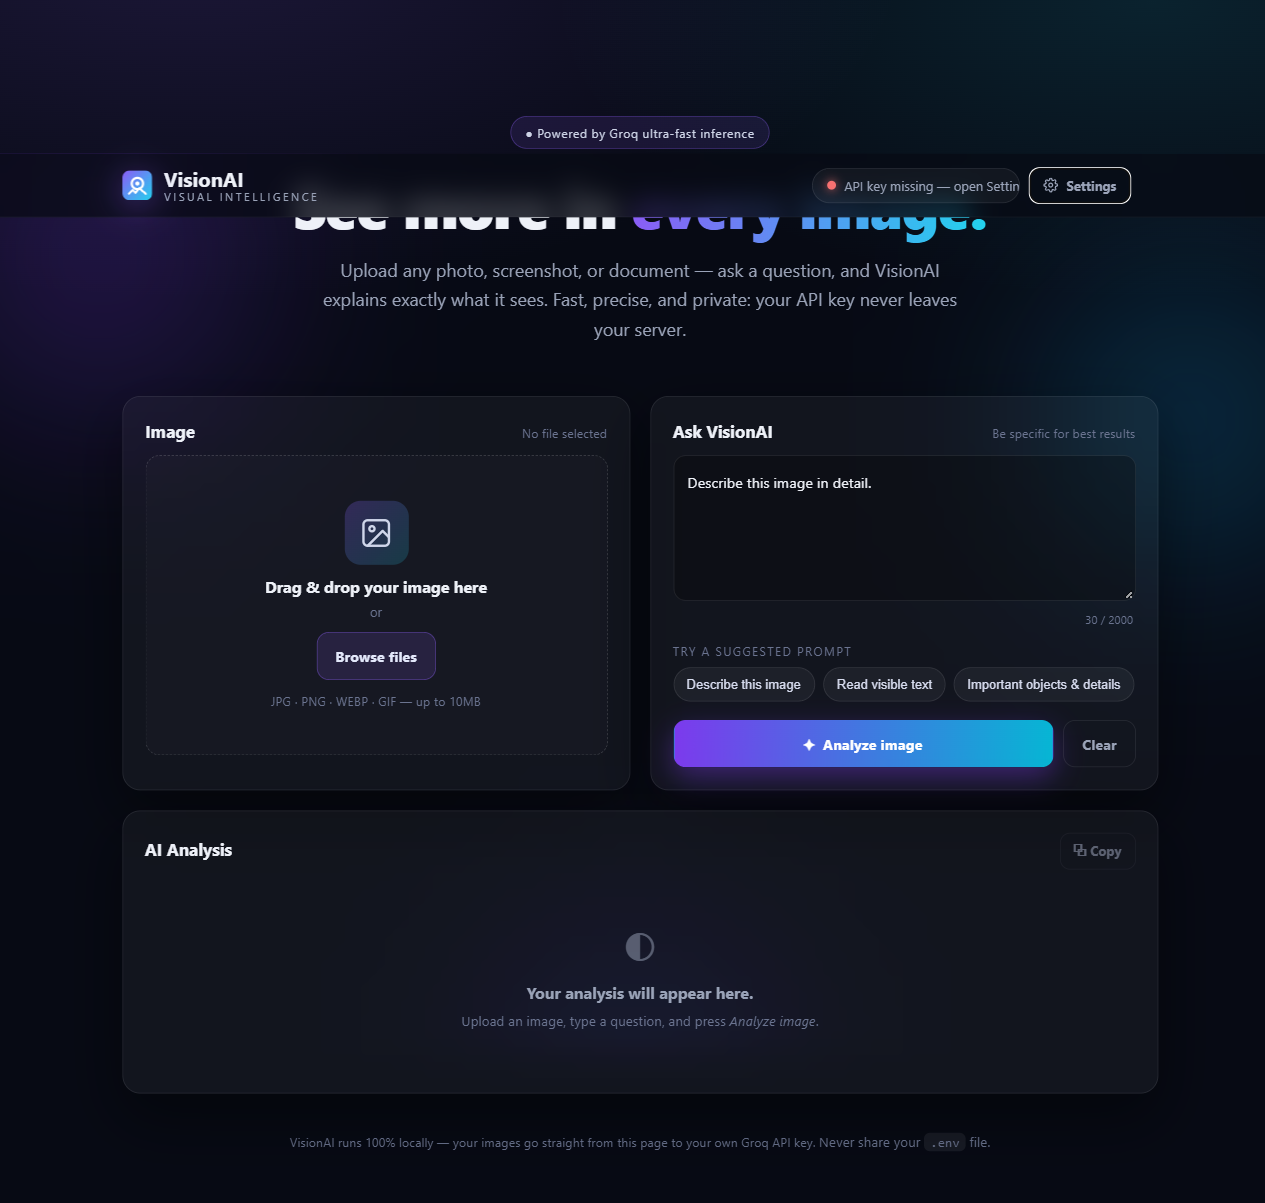
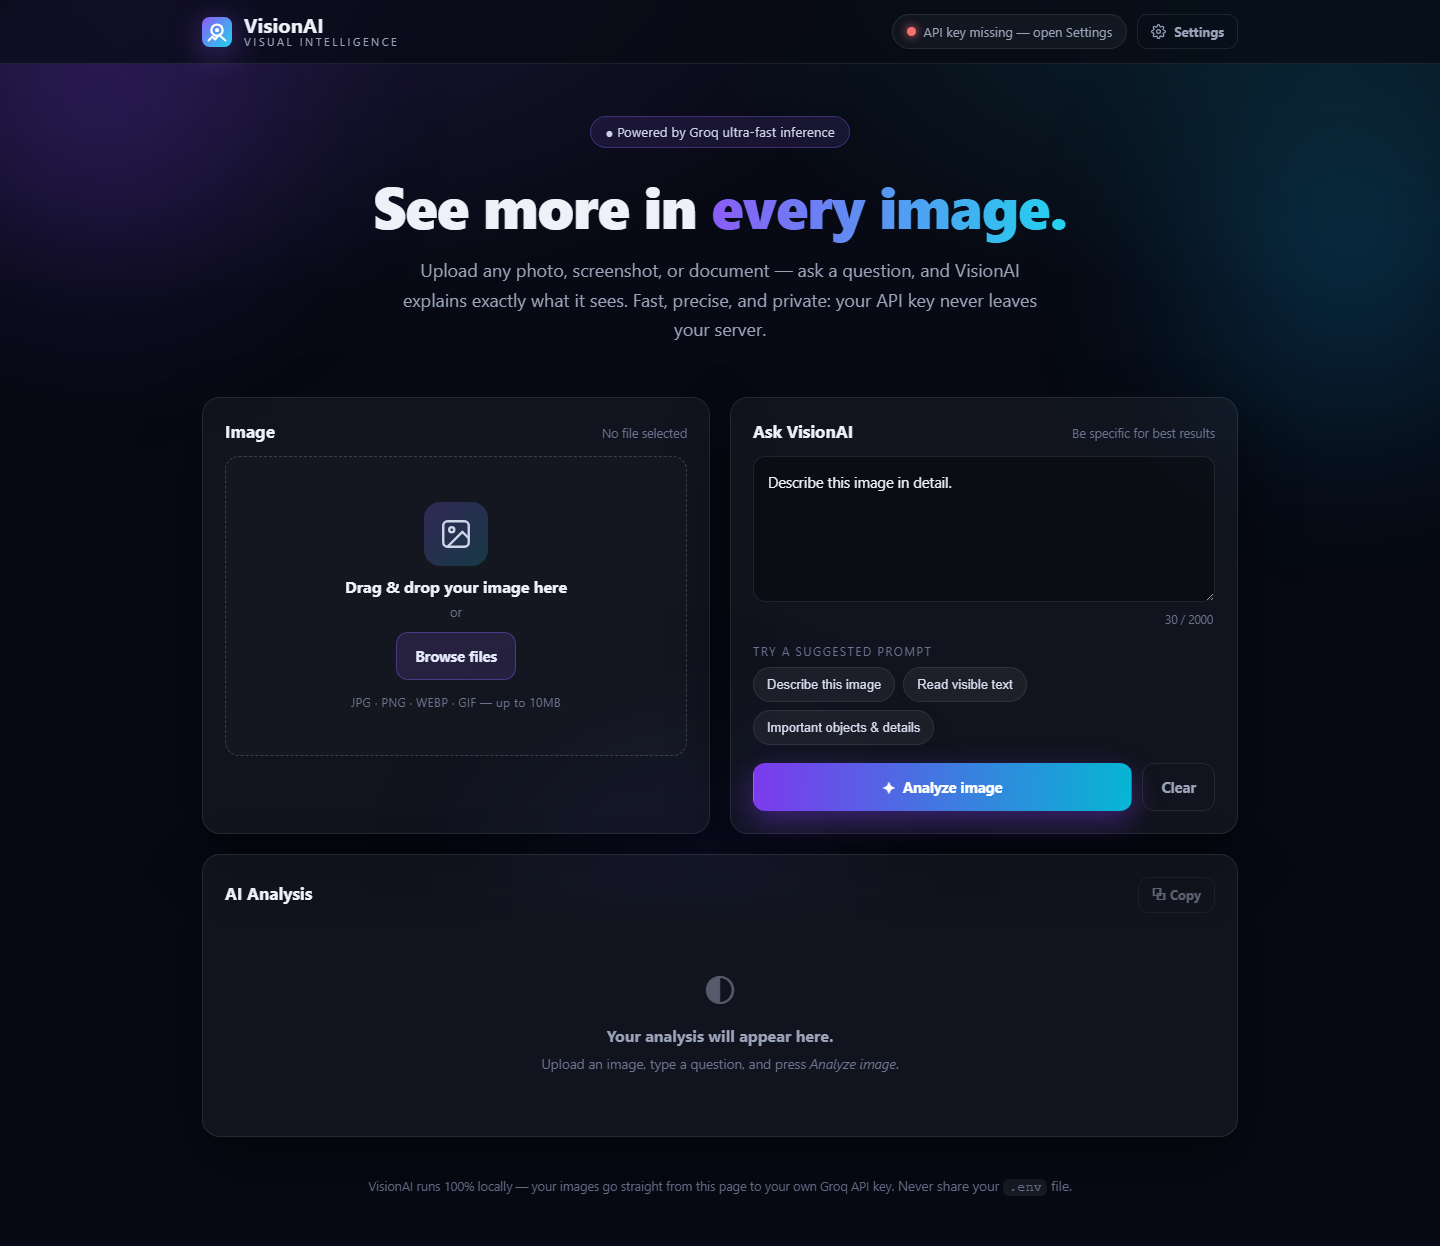
QA pass: header/pill responsive fixes, upload size pre-check, Groq 413/498 handling, README + requirements polish

diff --git a/static/app.js b/static/app.js
@@ -13,13 +13,19 @@
   const resultBody = $("resultBody"), copyBtn = $("copyBtn"), modelTag = $("modelTag");
   const retryBtn = $("retryBtn"), removeBtn = $("removeBtn");
 
-  const MAX_MB = 10;
+  let MAX_MB = 10;
   const ALLOWED = ["image/jpeg", "image/png", "image/webp", "image/gif"];
   let objectUrl = null;
   let lastAnswer = "";
 
   /* ---------- status ---------- */
   let keySource = null;
+  let statusTimer = null;
+  function pillText(configured, model) {
+    const narrow = window.innerWidth < 560;
+    if (configured) return narrow ? "API connected" : "API connected · " + (model || "ready");
+    return narrow ? "API key missing" : "API key missing — open Settings";
+  }
   async function loadStatus() {
     apiStatus.classList.add("checking");
     apiStatus.classList.remove("ok", "bad");
@@ -28,13 +34,18 @@
       const d = await r.json();
       apiStatus.classList.remove("checking");
       keySource = d.source || null;
+      if (typeof d.max_image_mb === "number" && d.max_image_mb > 0) {
+        MAX_MB = d.max_image_mb;
+        const fl = document.getElementById("formatsLine");
+        if (fl) fl.textContent = "JPG · PNG · WEBP · GIF — up to " + (Number.isInteger(MAX_MB) ? MAX_MB : MAX_MB.toFixed(1)) + "MB";
+      }
       if (d.configured) {
         apiStatus.classList.add("ok");
-        statusText.textContent = "API connected · " + (d.model || "ready");
+        statusText.textContent = pillText(true, d.model);
         statusText.title = d.message || "";
       } else {
         apiStatus.classList.add("bad");
-        statusText.textContent = "API key missing — open Settings";
+        statusText.textContent = pillText(false);
         statusText.title = d.message || "Add your Groq API key via Settings or .env";
       }
       renderKeyState(d);
@@ -44,6 +55,10 @@
       statusText.textContent = "Server unreachable";
     }
   }
+  window.addEventListener("resize", () => {
+    clearTimeout(statusTimer);
+    statusTimer = setTimeout(loadStatus, 250);
+  });
 
   /* ---------- settings modal ---------- */
   const settingsBtn = $("settingsBtn"), settingsModal = $("settingsModal");
@@ -272,7 +287,7 @@
     if (!q) { setAskError("Please type a question about the image before analyzing."); question.focus(); return; }
 
     analyzeBtn.disabled = true; show(btnSpinner);
-    document.querySelector(".btn-label").textContent = "Analyzing…";
+    analyzeBtn.querySelector(".btn-label").textContent = "Analyzing…";
     showState("loading"); copyBtn.disabled = true;
 
     try {
@@ -296,7 +311,7 @@
       showState("error");
     } finally {
       analyzeBtn.disabled = false; hide(btnSpinner);
-      document.querySelector(".btn-label").innerHTML = "✦ &nbsp;Analyze image";
+      analyzeBtn.querySelector(".btn-label").innerHTML = "✦ &nbsp;Analyze image";
     }
   }
   analyzeBtn.addEventListener("click", analyze);

diff --git a/static/styles.css b/static/styles.css
@@ -24,7 +24,7 @@ body{background:radial-gradient(1200px 600px at 15% -5%,rgba(139,92,246,.16),tra
 .brand-text{display:flex;flex-direction:column;line-height:1.1}
 .brand-text strong{font-size:20px;letter-spacing:.2px}
 .brand-text em{font-style:normal;font-size:11px;letter-spacing:2.5px;text-transform:uppercase;color:var(--muted)}
-.status-pill{display:flex;align-items:center;gap:8px;font-size:13px;color:var(--muted);background:var(--panel);border:1px solid var(--panel-border);border-radius:999px;padding:8px 14px;max-width:60%;overflow:hidden;white-space:nowrap;text-overflow:ellipsis}
+.status-pill{display:flex;align-items:center;gap:8px;font-size:13px;color:var(--muted);background:var(--panel);border:1px solid var(--panel-border);border-radius:999px;padding:8px 14px;overflow:hidden;white-space:nowrap;text-overflow:ellipsis}
 .status-pill .dot{width:9px;height:9px;border-radius:50%;background:var(--amber);flex:none;box-shadow:0 0 10px currentColor}
 .status-pill.ok .dot{background:var(--green);color:var(--green)}
 .status-pill.bad .dot{background:var(--red);color:var(--red)}
@@ -111,10 +111,18 @@ textarea:focus{outline:none;border-color:var(--violet);box-shadow:0 0 0 3px rgba
 @media (max-width:860px){
   .workspace{grid-template-columns:1fr}
   .topbar-inner{padding:12px 16px}
-  .status-pill{font-size:12px;max-width:52%}
+  .status-pill{font-size:12px;max-width:46%}
   .hero{padding:36px 0 18px}
   .panel{padding:18px}
   .actions{flex-direction:column}
+}
+@media (max-width:480px){
+  .brand-text strong{font-size:18px}
+  .brand-text em{font-size:10px;letter-spacing:1.2px;white-space:nowrap}
+  .topbar-inner{flex-wrap:wrap;row-gap:10px}
+  .header-actions{width:100%}
+  .status-pill{font-size:11.5px;padding:7px 10px;gap:6px;flex:1;min-width:0}
+  .settings-btn{padding:7px 10px;font-size:12px}
 }
 
 /* Header actions + settings */

diff --git a/static/index.html b/static/index.html
@@ -53,7 +53,7 @@
           <p class="dz-title">Drag &amp; drop your image here</p>
           <p class="dz-sub">or</p>
           <button type="button" class="btn btn-secondary" id="browseBtn">Browse files</button>
-          <p class="dz-formats">JPG · PNG · WEBP · GIF — up to 10MB</p>
+          <p class="dz-formats" id="formatsLine">JPG · PNG · WEBP · GIF — up to 10MB</p>
         </div>
         <div class="dz-preview" id="dzPreview" hidden>
           <img id="previewImg" alt="Uploaded image preview" />

diff --git a/app.py b/app.py
@@ -16,7 +16,7 @@ import logging
 import os
 
 from dotenv import load_dotenv
-from fastapi import FastAPI, File, Form, UploadFile
+from fastapi import FastAPI, File, Form, Request, UploadFile
 from fastapi.responses import FileResponse, JSONResponse
 from fastapi.staticfiles import StaticFiles
 from openai import (
@@ -51,7 +51,7 @@ MAX_SIDE_PX = 1536
 BASE_DIR = os.path.dirname(os.path.abspath(__file__))
 STATIC_DIR = os.path.join(BASE_DIR, "static")
 
-app = FastAPI(title="VisionAI", version="1.1.0")
+app = FastAPI(title="VisionAI", version="1.1.1")
 app.mount("/static", StaticFiles(directory=STATIC_DIR), name="static")
 
 # In-memory API key entered via the Settings panel in the UI.
@@ -109,6 +109,16 @@ def _friendly_groq_error(exc: Exception) -> tuple[int, str]:
             return 400, (
                 "Groq rejected the image (it may be too large or in an unsupported "
                 "format). Try a JPG/PNG under 10MB and try again."
+            )
+        if status == 413:
+            return 413, (
+                "The image was too large for Groq to process. "
+                "Please use a smaller file (under 10MB) and try again."
+            )
+        if status in (498, 499):
+            return 503, (
+                "Groq is temporarily at capacity and did not process the request. "
+                "Wait a minute and try again — you will not be charged for this."
             )
         if status == 404:
             return 502, (
@@ -249,6 +259,7 @@ def api_delete_key():
 
 @app.post("/api/analyze")
 async def api_analyze(
+    request: Request,
     image: UploadFile | None = File(default=None),
     question: str = Form(default=""),
 ):
@@ -287,6 +298,23 @@ async def api_analyze(
                     )
                 },
             )
+
+    # --- Early size guard: reject giant bodies before reading into memory.
+    # (1MB slack covers multipart framing overhead around the file bytes.)
+    try:
+        content_length = int(request.headers.get("content-length") or 0)
+    except ValueError:
+        content_length = 0
+    if content_length and content_length > MAX_IMAGE_BYTES + 1024 * 1024:
+        return JSONResponse(
+            status_code=413,
+            content={
+                "error": (
+                    f"Image is too large (limit is {MAX_IMAGE_MB:g}MB). "
+                    "Please compress/resize it or choose a smaller file."
+                )
+            },
+        )
 
     # --- Validate size ---
     raw = await image.read()

diff --git a/README.md b/README.md
@@ -15,7 +15,7 @@ No database. No frontend framework. No fake responses. Just a clean FastAPI back
 - Live API connection status pill in the header
 - Server-side validation: file type, file size, empty question, image integrity
 - Automatic image downscale/compress so uploads stay fast and within Groq limits
-- API key stays server-side — never exposed to the browser
+- API key stays on your server — typed into your own local page, kept only in server memory or your local `.env`; never in browser storage, never sent back to the browser, never committed to git
 
 ## Requirements
 
@@ -72,7 +72,7 @@ GROQ_API_KEY=gsk_paste_your_key_here
 GROQ_MODEL=qwen/qwen3.8-27b
 ```
 
-> The default model `qwen/qwen3.8-27b` is the current vision-capable model (verified Sept 2026 from https://console.groq.com/docs/vision). If Groq renames models in the future, check https://console.groq.com/docs/models and update `GROQ_MODEL`.
+> The default model `qwen/qwen3.8-27b` is the current vision-capable model (verified from https://console.groq.com/docs/vision). Note Groq lists it as a **preview** model, which means Groq can rename or retire it on short notice — if you ever see a "model was not found" error, check https://console.groq.com/docs/models for the current vision model and update `GROQ_MODEL`.
 
 ## Running the application
 
@@ -83,7 +83,9 @@ uvicorn app:app --reload
 Then open **http://127.0.0.1:8000** in your browser.
 
 - Homepage: `GET /`
-- Health check: `GET /api/status` (shows whether your key is configured)
+- Health check: `GET /api/status` (shows whether your key is configured and where it came from)
+- Save key: `POST /api/key` (JSON `{"key": "..."}` — verified with Groq, kept in server memory only)
+- Remove key: `DELETE /api/key` (forgets the Settings key; falls back to `.env`)
 - Analysis: `POST /api/analyze` (multipart: `image` file + `question` text)
 
 ## How the project works
@@ -121,7 +123,7 @@ Key files:
 - **Bigger uploads:** raise `MAX_IMAGE_MB` in `.env` (keep ≤ 10–15MB; Groq caps image requests at 20MB and base64 inflates size ~33%).
 - **Suggested prompts:** edit the `.chip` buttons in `static/index.html`.
 - **Theme:** tweak the CSS variables at the top of `static/styles.css`.
-- **Port:** set `PORT` in `.env` and run `uvicorn app:app --port 8001 --reload`.
+- **Port:** run `uvicorn app:app --reload --port 8001` (or set `PORT` in `.env` when starting via `python app.py`).
 
 ## Common errors
 
@@ -139,5 +141,5 @@ Key files:
 
 - Your `.env` file contains a **secret API key**. Never share it, never commit it, never paste it into screenshots or videos.
 - `.gitignore` already excludes `.env`. Keep it that way.
-- The key only lives on your server (`app.py`) — the frontend JavaScript never sees it.
+- The Settings-panel key only lives in the server's memory (`app.py`): it is never written to disk, never logged, never stored in the browser, and never sent back to any page. It disappears when the server restarts.
 - If a key ever leaks, delete it at https://console.groq.com/keys and create a new one.
